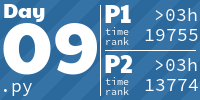
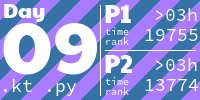
Add day 15 kotlin solution using coroutines.

diff --git a/2022/15/15_2.kt b/2022/15/15_2.kt
@@ -1,0 +1,56 @@
+import kotlinx.coroutines.*
+import kotlin.math.abs
+
+const val size = 4000000
+const val mid = 2000000
+
+fun getEmptyPositionOrNull(ranges: List<Pair<Int, Int>>, y: Int): Pair<Int, Int>? {
+    var x = 0
+    for ((l, r) in ranges) {
+        if (l > x) return Pair(x, y)
+        x = maxOf(r + 1, x)
+    }
+    return if (x <= size) Pair(x, y)
+    else null
+}
+
+suspend fun main() {
+    val rows = MutableList(size + 1) { mutableListOf<Pair<Int, Int>>() }
+    val beaconsAtMid = mutableSetOf<Int>()
+
+    generateSequence { readlnOrNull() }
+        .map { line -> line.replace(":", ",").split('=').drop(1).map { it.split(',')[0].toInt() } }
+        .forEach {
+            val (sx, sy, bx, by) = it
+            val dist = abs(sx - bx) + abs(sy - by)
+
+            //this parallelization only saves about 3 seconds and was done for learning purposes only
+            (1..4000).map { i ->
+                    val range = ((1000 * (i - 1))..(1000 * (i - 1) + 999))
+                    CoroutineScope(Dispatchers.Default).async {
+                        for (y in range) {
+                            val width = dist - abs(y - sy)
+                            if (width >= 0) rows[y].add(Pair(sx - width, sx + width))
+                        }
+                    }
+                }
+                .awaitAll()
+
+            if(by == mid) beaconsAtMid.add(bx)
+        }
+
+    val sensorsAtMid = rows[mid].map{(it.first..it.second)}.flatten().toSet()
+    val out1 = (sensorsAtMid subtract beaconsAtMid).count()
+
+    val out2 = rows
+        .map { it.sortedBy { it.first } }
+        .withIndex()
+        .firstNotNullOf { getEmptyPositionOrNull(it.value, it.index) }
+        .run { size * 1L * this.first + this.second }
+
+    println(out1)
+    println(out2)
+
+    assert(out1 == 4724228) { "First answer (${out1}) is wrong." }
+    assert(out2 == 13622251246513L) { "Second answer (${out2}) is wrong." }
+}

diff --git a/README.md b/README.md
@@ -4,7 +4,7 @@ My Advent of Code solutions for the year 2022.
 
 <!-- AOC TILES BEGIN -->
 <h1 align="center">
-  2022 - 26 ⭐
+  2022 - 30 ⭐
 </h1>
 <a href="2022/01/01.kt">
   <img src="Media/2022/01.png" width="161px">
@@ -30,7 +30,7 @@ My Advent of Code solutions for the year 2022.
 <a href="2022/08/08.py">
   <img src="Media/2022/08.png" width="161px">
 </a>
-<a href="2022/09/09.py">
+<a href="2022/09/09.kt">
   <img src="Media/2022/09.png" width="161px">
 </a>
 <a href="2022/10/10.kt">
@@ -45,10 +45,10 @@ My Advent of Code solutions for the year 2022.
 <a href="2022/13/13.kt">
   <img src="Media/2022/13.png" width="161px">
 </a>
-<a href="None">
+<a href="2022/14/14.kt">
   <img src="Media/2022/14.png" width="161px">
 </a>
-<a href="None">
+<a href="2022/15/15_2.kt">
   <img src="Media/2022/15.png" width="161px">
 </a>
 <a href="None">
